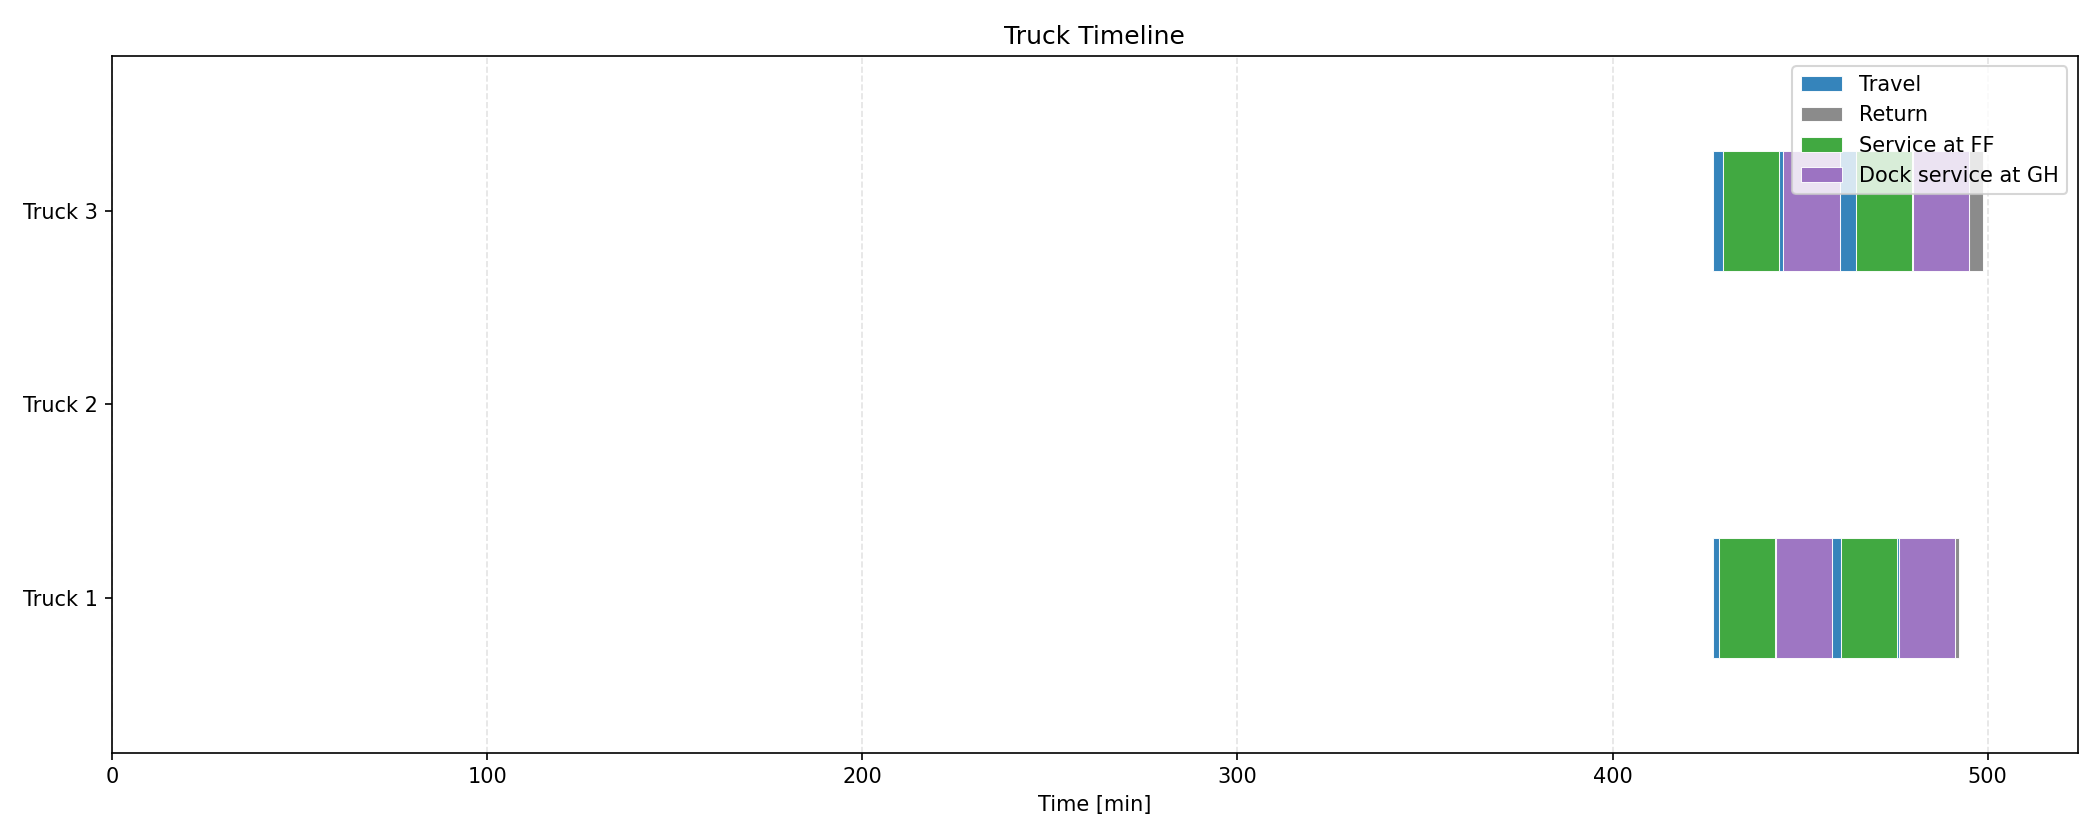
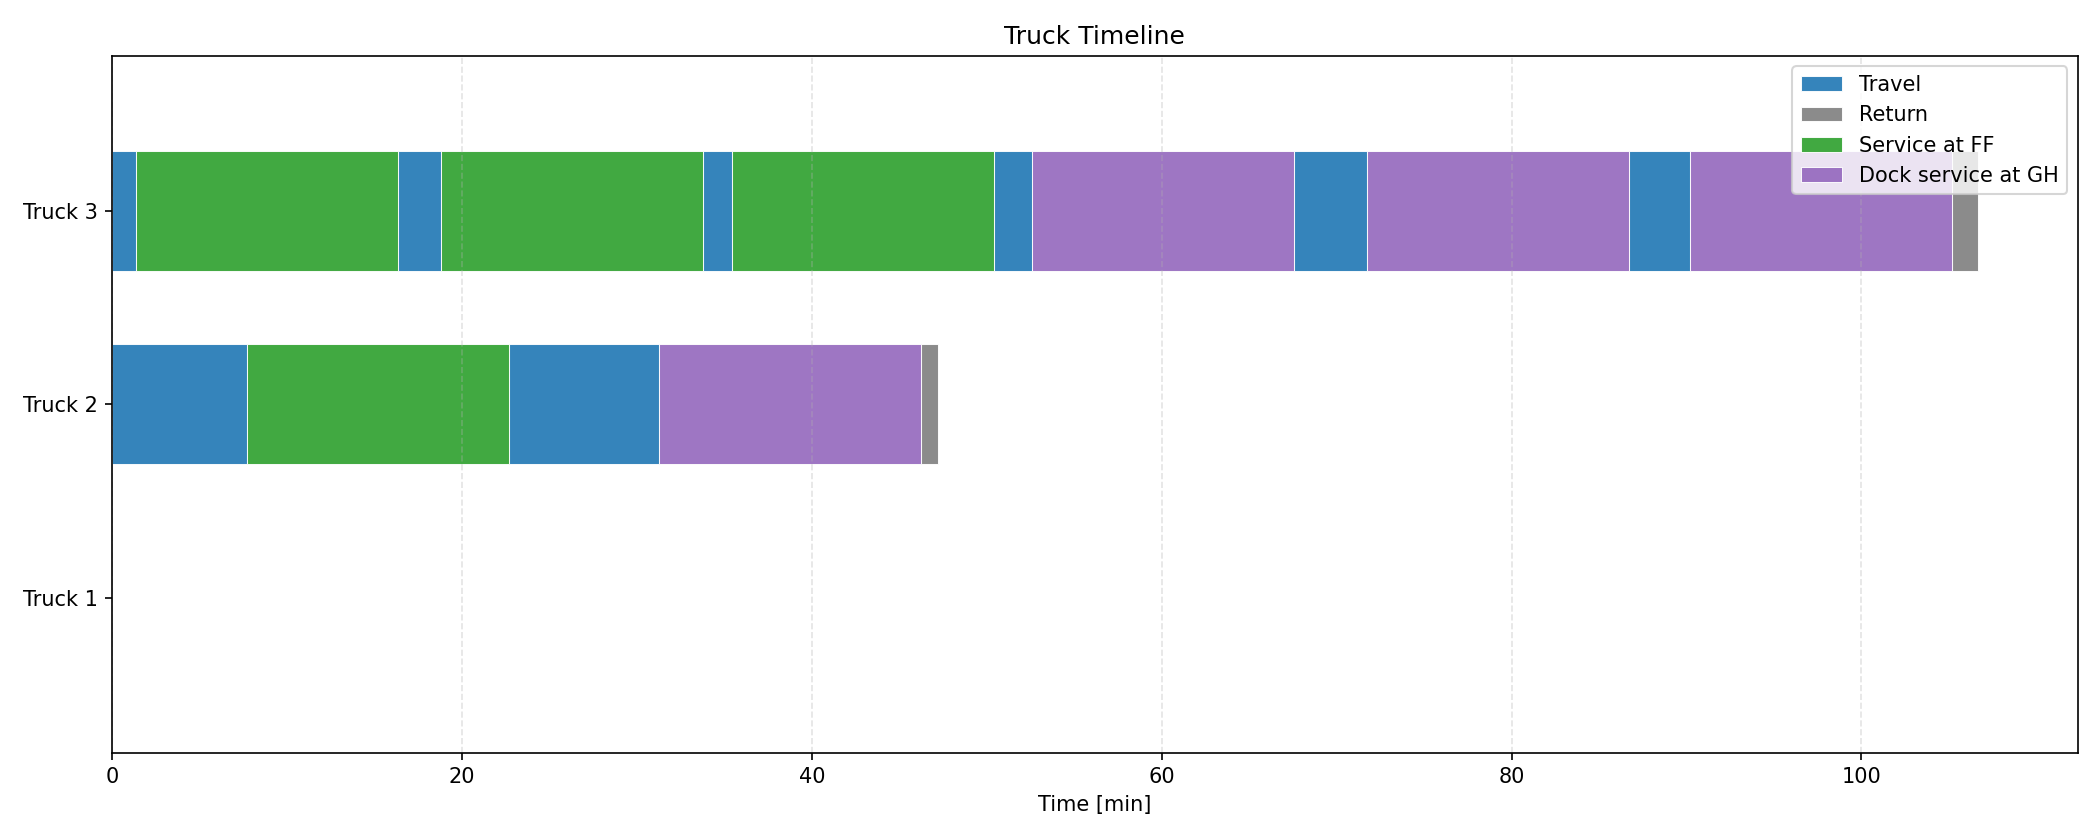
cambiar causalidad

diff --git a/Sensitivity_GH_FHs.py b/Sensitivity_GH_FHs.py
@@ -27,7 +27,7 @@ M=10000 # Big M for time constraints (should be larger than Horizon + max proces
 tighter_windows_instance=0 # proportion of nodes with tightened time windows (0.2 = 20% of nodes have tighter windows)
 Delta_GH = 1 # number of docks per GH (Assuming 'Very Large' instance setting or standard)
 Docks = list(range(1, Delta_GH + 1)) # Set of Docks
-n_uld = 10 # number of ULDs (Pickups = 1..n_uld, Deliveries = n_uld+1..2*n_uld)
+n_uld = 4 # number of ULDs (Pickups = 1..n_uld, Deliveries = n_uld+1..2*n_uld)
 K_trucks = [1, 2, 3] #truck instances
 Weight_u = 1000   # weight of each ULD in [kg]
 Length_u = 1.534  # length of each UL in [m]
@@ -66,11 +66,11 @@ def plot_routes(routes: Dict[int, List[int]], node_coords: List[List[float]], ff
         for i in nodes:
             ax.scatter(node_coords[i][1], node_coords[i][0], c="#1f77b4", s=150, marker="o")
             ax.annotate(
-                str(f),
+                f"N{i} (FF{f})",
                 xy=(node_coords[i][1], node_coords[i][0]),
                 xytext=(10, 10),
                 textcoords="offset points",
-                fontsize=12,
+                fontsize=10,
                 color="#1f77b4",
                 weight="bold",
             )
@@ -78,11 +78,11 @@ def plot_routes(routes: Dict[int, List[int]], node_coords: List[List[float]], ff
         for i in nodes:
             ax.scatter(node_coords[i][1], node_coords[i][0], c="#ff7f0e", s=150, marker="^")
             ax.annotate(
-                str(g),
+                f"N{i} (GH{g})",
                 xy=(node_coords[i][1], node_coords[i][0]),
                 xytext=(10, 10),
                 textcoords="offset points",
-                fontsize=12,
+                fontsize=10,
                 color="#ff7f0e",
                 weight="bold",
             )
@@ -288,6 +288,14 @@ for i in All_Nodes:
         # 2) Forbid returning to the depot from a pickup: P -> 0
         if i in Nodes_P and j == 0:
             continue
+        # 3) Forbid going to a delivery before its corresponding pickup
+        if j in Nodes_D:
+            pickup_node = j - n_uld
+            if pickup_node in Nodes_P:
+                # Don't allow edge to delivery unless pickup was already visited
+                # This requires checking if i is the pickup or comes after it
+                if i != pickup_node and i not in Nodes_D:
+                    continue
         Edges.append((i, j))
 
 
@@ -327,15 +335,36 @@ print(locs_11)
 locs_2 = {
     'FF1': (dms_to_dd(52,17,46.8), dms_to_dd(4,46,10.4)),
     'FF2': (dms_to_dd(52,18,6.8),  dms_to_dd(4,45,3.2)),
-    'FF3': (dms_to_dd(52,17,0.9108), dms_to_dd(4,46,9.0422)),
-    'FF4': (dms_to_dd(52,16,29.579), dms_to_dd(4,44,28.912)),
+    'FF3': (dms_to_dd(52,15,0.9108), dms_to_dd(4,46,9.0422)),
+    'FF4': (dms_to_dd(52,18,29.579), dms_to_dd(4,44,28.912)),
     'GH1': (dms_to_dd(52,17,0.8),  dms_to_dd(4,46,7.1)),
     'GH2': (dms_to_dd(52,16,32.9), dms_to_dd(4,44,30.0)),
     'GH3': (dms_to_dd(52,17,42.297), dms_to_dd(4,45,57.302)),
-    'GH4': (dms_to_dd(52,17,50.289), dms_to_dd(4,44,46.132))
-
-    
+    'GH4': (dms_to_dd(52,17,50.289), dms_to_dd(4,44,46.132))  
 }
+
+locs_3 = {
+    'FF1': (dms_to_dd(52,17,46.8), dms_to_dd(4,46,10.4)),
+    'FF2': (dms_to_dd(52,18,6.8),  dms_to_dd(4,45,3.2)),
+    'GH2': (dms_to_dd(52,16,32.9), dms_to_dd(4,44,30.0)) 
+}
+
+locs_4 = {
+    'FF1': (dms_to_dd(52,17,46.8), dms_to_dd(4,46,10.4)),
+    'GH1': (dms_to_dd(52,17,0.8),  dms_to_dd(4,46,7.1)),
+    'GH2': (dms_to_dd(52,16,32.9), dms_to_dd(4,44,30.0)),
+}
+
+locs_4 = {
+    'FF1': (dms_to_dd(52,17,46.8), dms_to_dd(4,46,10.4)),
+    'GH1': (dms_to_dd(52,17,0.8),  dms_to_dd(4,46,7.1)),
+    'GH2': (dms_to_dd(52,16,32.9), dms_to_dd(4,44,30.0)),
+}
+
+
+
+
+
 # SELECT YOU LOCATION SET HERE
 locs = locs_2
 

diff --git a/FINAL_MAIN.py b/FINAL_MAIN.py
@@ -52,6 +52,7 @@ def get_dist(coord1, coord2):
     r = 6371 # Radius of earth in kilometers
     return c * r
 
+# Plotting Functions
 def plot_routes(routes: Dict[int, List[int]], node_coords: List[List[float]], ff_nodes: Dict[int, List[int]], gh_nodes: Dict[int, List[int]], output_path: str = "truck_routes.png"):
     fig, ax = plt.subplots(figsize=(8, 6))
 
@@ -60,27 +61,38 @@ def plot_routes(routes: Dict[int, List[int]], node_coords: List[List[float]], ff
     ax.scatter(depot[1], depot[0], c="black", s=80, marker="s", label="Depot")
 
     # Plot FFs and GHs
+    def _node_label_offset(node_idx: int, total_nodes: int, base_x: int, base_y: int):
+        if total_nodes <= 1:
+            return (base_x, base_y)
+        spread = 12
+        centered_rank = node_idx - (total_nodes - 1) / 2
+        return (base_x, base_y + int(centered_rank * spread))
+
     for f, nodes in ff_nodes.items():
-        for i in nodes:
+        total_nodes = len(nodes)
+        for node_idx, i in enumerate(nodes):
+            offset_xy = _node_label_offset(node_idx, total_nodes, 10, 10)
             ax.scatter(node_coords[i][1], node_coords[i][0], c="#1f77b4", s=150, marker="o")
             ax.annotate(
-                str(f),
+                f"N{i} (FF{f})",
                 xy=(node_coords[i][1], node_coords[i][0]),
-                xytext=(10, 10),
+                xytext=offset_xy,
                 textcoords="offset points",
-                fontsize=12,
+                fontsize=10,
                 color="#1f77b4",
                 weight="bold",
             )
     for g, nodes in gh_nodes.items():
-        for i in nodes:
+        total_nodes = len(nodes)
+        for node_idx, i in enumerate(nodes):
+            offset_xy = _node_label_offset(node_idx, total_nodes, 10, 10)
             ax.scatter(node_coords[i][1], node_coords[i][0], c="#ff7f0e", s=150, marker="^")
             ax.annotate(
-                str(g),
+                f"N{i} (GH{g})",
                 xy=(node_coords[i][1], node_coords[i][0]),
-                xytext=(10, 10),
+                xytext=offset_xy,
                 textcoords="offset points",
-                fontsize=12,
+                fontsize=10,
                 color="#ff7f0e",
                 weight="bold",
             )
@@ -118,6 +130,7 @@ def plot_routes(routes: Dict[int, List[int]], node_coords: List[List[float]], ff
     fig.tight_layout()
     fig.savefig(output_path, dpi=150)
     print(f"Route plot saved to: {output_path}")
+
 
 def plot_truck_timeline_gantt(
     routes: Dict[int, List[int]],
@@ -295,6 +308,14 @@ for i in All_Nodes:
         # 2) Forbid returning to the depot from a pickup: P -> 0
         if i in Nodes_P and j == 0:
             continue
+        # 3) Forbid going to a delivery before its corresponding pickup
+        if j in Nodes_D:
+            pickup_node = j - n_uld
+            if pickup_node in Nodes_P:
+                # Don't allow edge to delivery unless pickup was already visited
+                # This requires checking if i is the pickup or comes after it
+                if i != pickup_node and i not in Nodes_D:
+                    continue
         Edges.append((i, j))
 
 
